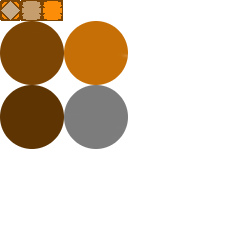
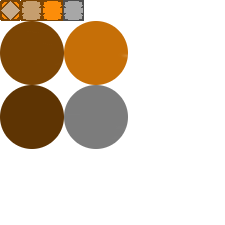
disabled buttons that currently do not do anything or throw exceptions

Changed region(s): [[0.28, 0.0, 0.3733, 0.0933]]

diff --git a/SRPG/SRPG/Scene/MainMenu/MenuOptionsDialog.cs b/SRPG/SRPG/Scene/MainMenu/MenuOptionsDialog.cs
@@ -19,6 +19,10 @@ namespace SRPG.Scene.MainMenu
         {
             InitializeComponent();
 
+            _continue.Enabled = false;
+            _loadGame.Enabled = false;
+            _options.Enabled = false;
+
             _newGame.Pressed += (s, a) => OnNewGamePressed.Invoke();
             _continue.Pressed += (s, a) => OnContinuePressed.Invoke();
             _loadGame.Pressed += (s, a) => OnLoadGamePressed.Invoke();

diff --git a/SRPG/SRPG/Scene/PartyMenu/CharacterInventoryDialog.cs b/SRPG/SRPG/Scene/PartyMenu/CharacterInventoryDialog.cs
@@ -22,6 +22,10 @@ namespace SRPG.Scene.PartyMenu
             _weaponText.Text = weapon == null ? "---" : weapon.Name;
             _armorText.Text = armor == null ? "---" : armor.Name;
             _accText.Text = acc == null ? "---" : acc.Name;
+
+            _armorButton.Enabled = false;
+            _weaponButton.Enabled = false;
+            _accButton.Enabled = false;
         }
     }
 }

diff --git a/SRPG/SRPG/Scene/Battle/BattleScene.cs b/SRPG/SRPG/Scene/Battle/BattleScene.cs
@@ -712,6 +712,7 @@ namespace SRPG.Scene.Battle
             menu.AddOption("special", icon);
 
             icon = new RadialButtonControl { ImageFrame = "item", Bounds = new UniRectangle(0, 0, 64, 64) };
+            icon.Enabled = false;
             menu.AddOption("item", icon);
 
             _radialMenuControl = menu;

diff --git a/SRPG/SRPG/Scene/PartyMenu/MenuDialog.cs b/SRPG/SRPG/Scene/PartyMenu/MenuDialog.cs
@@ -17,6 +17,9 @@ namespace SRPG.Scene.PartyMenu
         public MenuDialog()
         {
             InitializeComponent();
+
+            _inventoryButton.Enabled = false;
+            _settingsButton.Enabled = false;
         }
     }
 }

diff --git a/SRPG/SRPG/Scene/Battle/HUDDialog.cs b/SRPG/SRPG/Scene/Battle/HUDDialog.cs
@@ -14,6 +14,7 @@ namespace SRPG.Scene.Battle
         {
             InitializeComponent();
 
+            _endTurn.Enabled = false;
             _endTurn.Pressed += (s, a) => EndTurnPressed.Invoke();
         }
 
